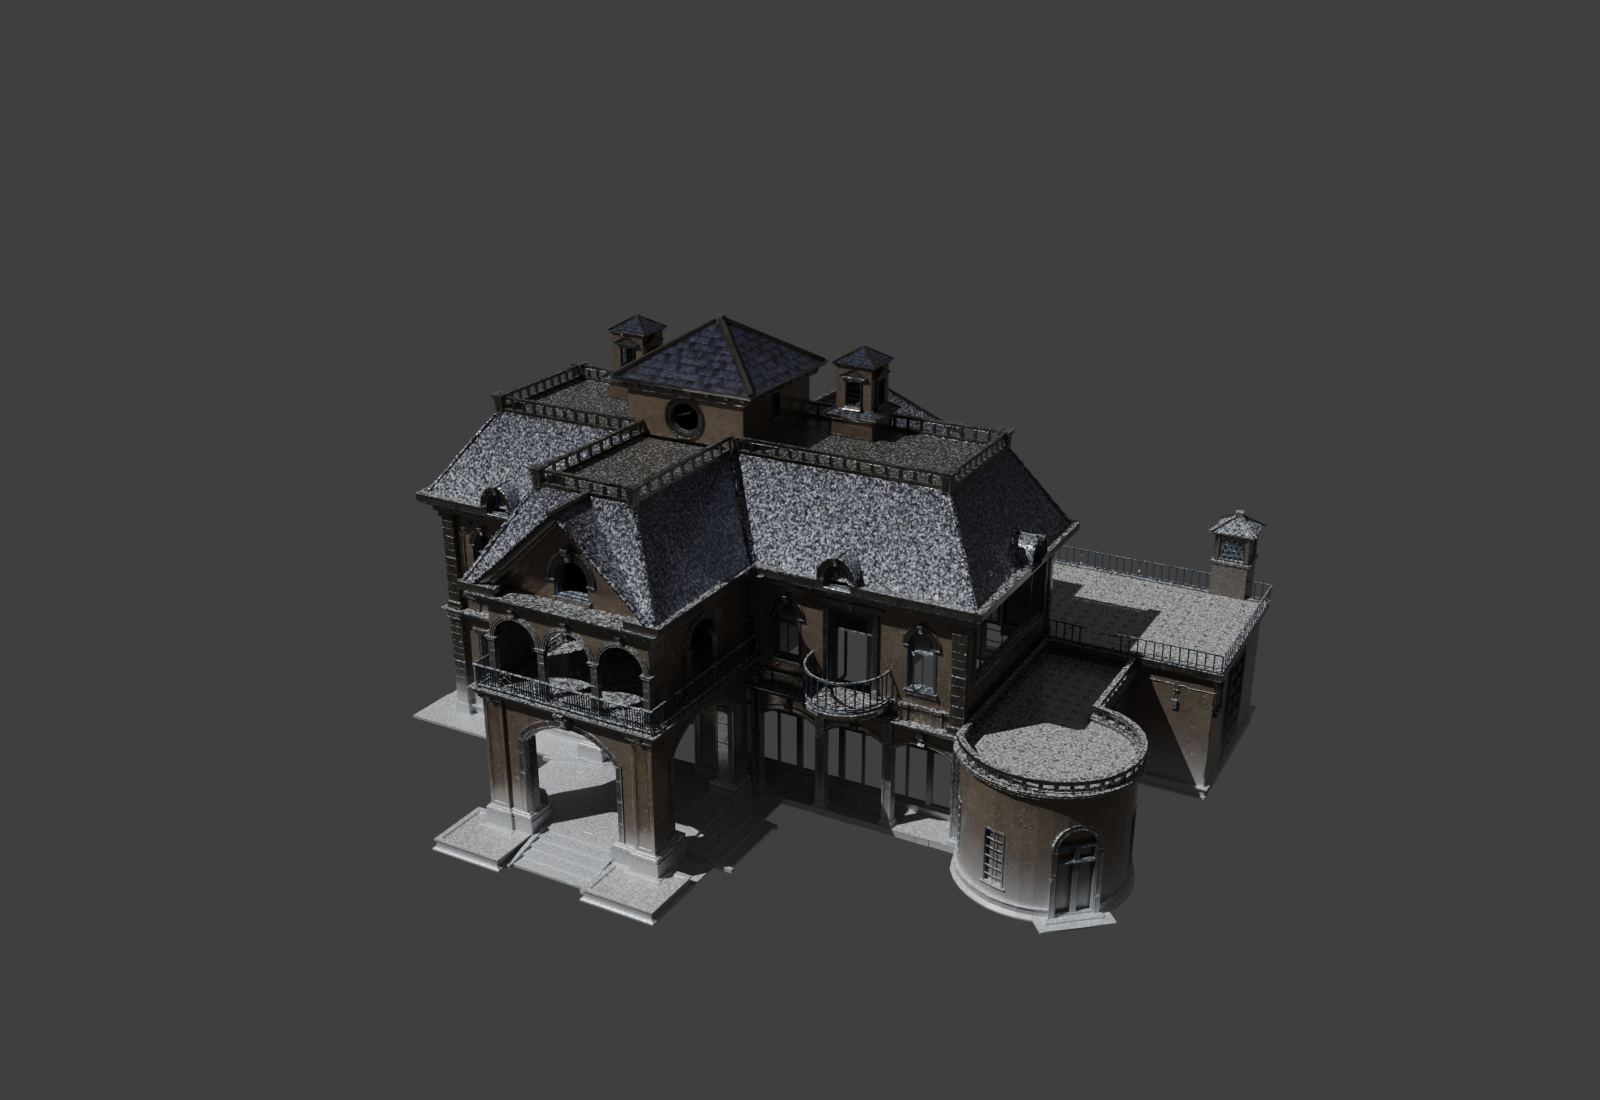
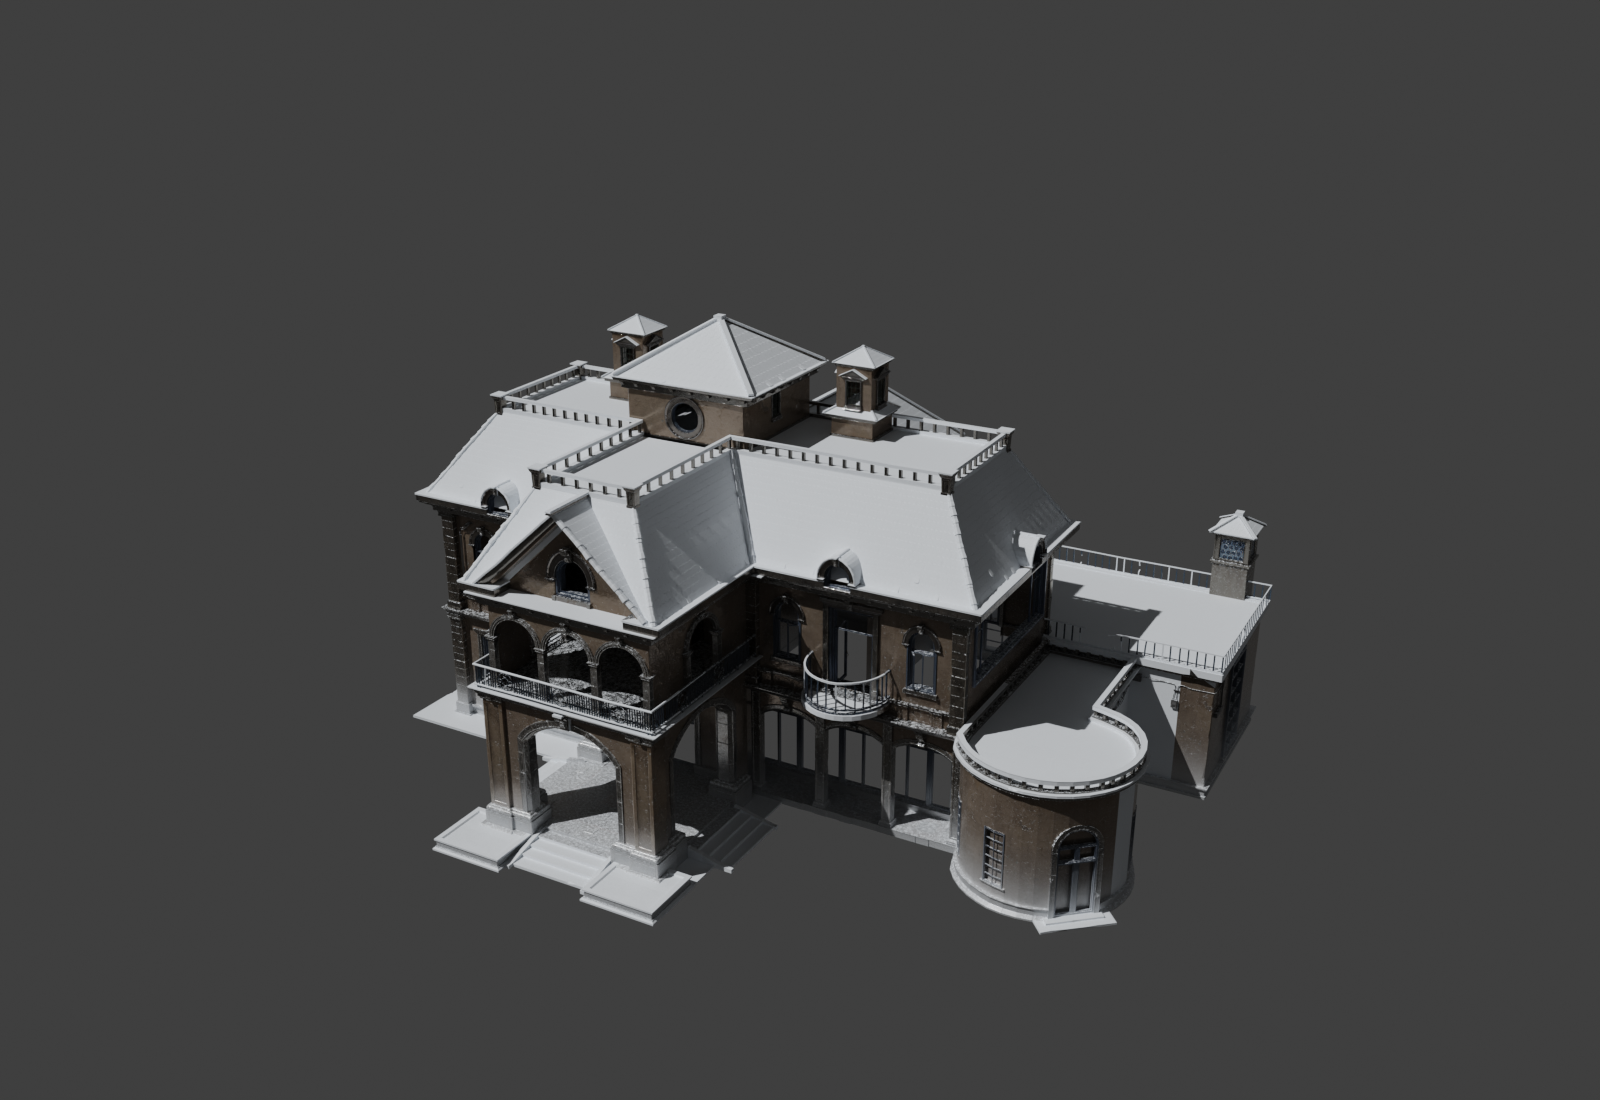
Improve top projection mask coverage

diff --git a/addons/snow_mask_universal_tool/__init__.py b/addons/snow_mask_universal_tool/__init__.py
@@ -1,7 +1,7 @@
 bl_info = {
     "name": "Universal Snow Mask Tool",
     "author": "OpenAI Codex",
-    "version": (1, 1, 0),
+    "version": (1, 1, 1),
     "blender": (5, 1, 0),
     "location": "View3D > Sidebar > Snow Mask",
     "description": "Import FBX, apply an adjustable snow mask material, and sync controls across submeshes.",
@@ -840,7 +840,64 @@ def import_ascii_fbx_lightweight(path):
 
 
 
-def bake_top_projection_mask(target_objects=None, normal_z_min=0.0):
+def polygon_sample_points(obj, poly, inset=0.08):
+    center = obj.matrix_world @ poly.center
+    points = [center]
+    world_vertices = [obj.matrix_world @ obj.data.vertices[index].co for index in poly.vertices]
+    for point in world_vertices:
+        points.append(center.lerp(point, max(0.0, min(1.0, 1.0 - inset))))
+    for index, point in enumerate(world_vertices):
+        next_point = world_vertices[(index + 1) % len(world_vertices)]
+        midpoint = (point + next_point) * 0.5
+        points.append(center.lerp(midpoint, max(0.0, min(1.0, 1.0 - inset))))
+    return points
+
+
+def ray_hits_face_from_top(depsgraph, obj, poly, point, origin_z, min_z, self_tolerance):
+    origin = mathutils.Vector((point.x, point.y, origin_z))
+    hit, location, _normal, face_index, hit_obj, _matrix = bpy.context.scene.ray_cast(
+        depsgraph, origin, mathutils.Vector((0.0, 0.0, -1.0)), distance=(origin_z - min_z + 20.0)
+    )
+    if not hit:
+        return False
+    if hit_obj == obj and face_index == poly.index:
+        return True
+    if hit_obj == obj:
+        hit_poly = obj.data.polygons[face_index] if 0 <= face_index < len(obj.data.polygons) else None
+        if hit_poly:
+            target_z = (obj.matrix_world @ poly.center).z
+            hit_z = location.z
+            same_height = abs(hit_z - target_z) <= self_tolerance
+            same_normal = (obj.matrix_world.to_3x3() @ hit_poly.normal).normalized().z >= 0.0
+            if same_height and same_normal:
+                return True
+    return False
+
+
+def dilate_face_attribute(mesh, attr, steps):
+    if steps <= 0:
+        return
+    edge_to_faces = {}
+    for poly in mesh.polygons:
+        for edge_key in poly.edge_keys:
+            edge_to_faces.setdefault(tuple(sorted(edge_key)), []).append(poly.index)
+    neighbors = {poly.index: set() for poly in mesh.polygons}
+    for face_indices in edge_to_faces.values():
+        if len(face_indices) < 2:
+            continue
+        for face_index in face_indices:
+            neighbors[face_index].update(other for other in face_indices if other != face_index)
+    marked = {index for index, item in enumerate(attr.data) if item.value > 0.5}
+    for _step in range(steps):
+        expanded = set(marked)
+        for face_index in marked:
+            expanded.update(neighbors.get(face_index, ()))
+        marked = expanded
+    for index in marked:
+        attr.data[index].value = 1.0
+
+
+def bake_top_projection_mask(target_objects=None, normal_z_min=0.0, sample_inset=0.08, self_tolerance=0.35, dilate_steps=1):
     depsgraph = bpy.context.evaluated_depsgraph_get()
     meshes = [obj for obj in (target_objects or bpy.context.scene.objects) if obj.type == "MESH"]
     if not meshes:
@@ -860,19 +917,22 @@ def bake_top_projection_mask(target_objects=None, normal_z_min=0.0):
             item.value = 0.0
         for poly in mesh.polygons:
             total += 1
-            world_center = obj.matrix_world @ poly.center
             world_normal = (obj.matrix_world.to_3x3() @ poly.normal).normalized()
             if world_normal.z < normal_z_min:
                 continue
-            origin = mathutils.Vector((world_center.x, world_center.y, origin_z))
-            hit, _loc, _normal, face_index, hit_obj, _matrix = bpy.context.scene.ray_cast(
-                depsgraph, origin, mathutils.Vector((0.0, 0.0, -1.0)), distance=(origin_z - min_z + 20.0)
-            )
-            if hit and hit_obj == obj and face_index == poly.index:
-                attr.data[poly.index].value = 1.0
-                marked += 1
+            for point in polygon_sample_points(obj, poly, sample_inset):
+                if ray_hits_face_from_top(depsgraph, obj, poly, point, origin_z, min_z, self_tolerance):
+                    attr.data[poly.index].value = 1.0
+                    marked += 1
+                    break
+        dilate_face_attribute(mesh, attr, dilate_steps)
         mesh.update()
-    return marked, total
+    marked_after = 0
+    for obj in meshes:
+        attr = obj.data.attributes.get(TOP_PROJECTION_ATTRIBUTE)
+        if attr:
+            marked_after += sum(1 for item in attr.data if item.value > 0.5)
+    return marked_after, total
 
 
 def import_fbx(path):
@@ -1042,11 +1102,14 @@ class SNOWMASK_OT_bake_top_projection(bpy.types.Operator):
     bl_options = {"REGISTER", "UNDO"}
 
     selected_only: bpy.props.BoolProperty(name="Selected Only", default=False)
-    normal_z_min: bpy.props.FloatProperty(name="Normal Z Min", default=0.0, min=-1.0, max=1.0)
+    normal_z_min: bpy.props.FloatProperty(name="Normal Z Min", default=-0.05, min=-1.0, max=1.0)
+    sample_inset: bpy.props.FloatProperty(name="Sample Inset", default=0.08, min=0.0, max=0.45)
+    self_tolerance: bpy.props.FloatProperty(name="Self Tolerance", default=0.35, min=0.0, max=10.0)
+    dilate_steps: bpy.props.IntProperty(name="Dilate Steps", default=1, min=0, max=8)
 
     def execute(self, context):
         objects = context.selected_objects if self.selected_only else None
-        marked, total = bake_top_projection_mask(objects, self.normal_z_min)
+        marked, total = bake_top_projection_mask(objects, self.normal_z_min, self.sample_inset, self.self_tolerance, self.dilate_steps)
         ensure_all_top_projection_nodes()
         set_all_top_projection_enabled(True)
         set_all_top_projection_weight(context.scene.snowmask_top_projection_weight)